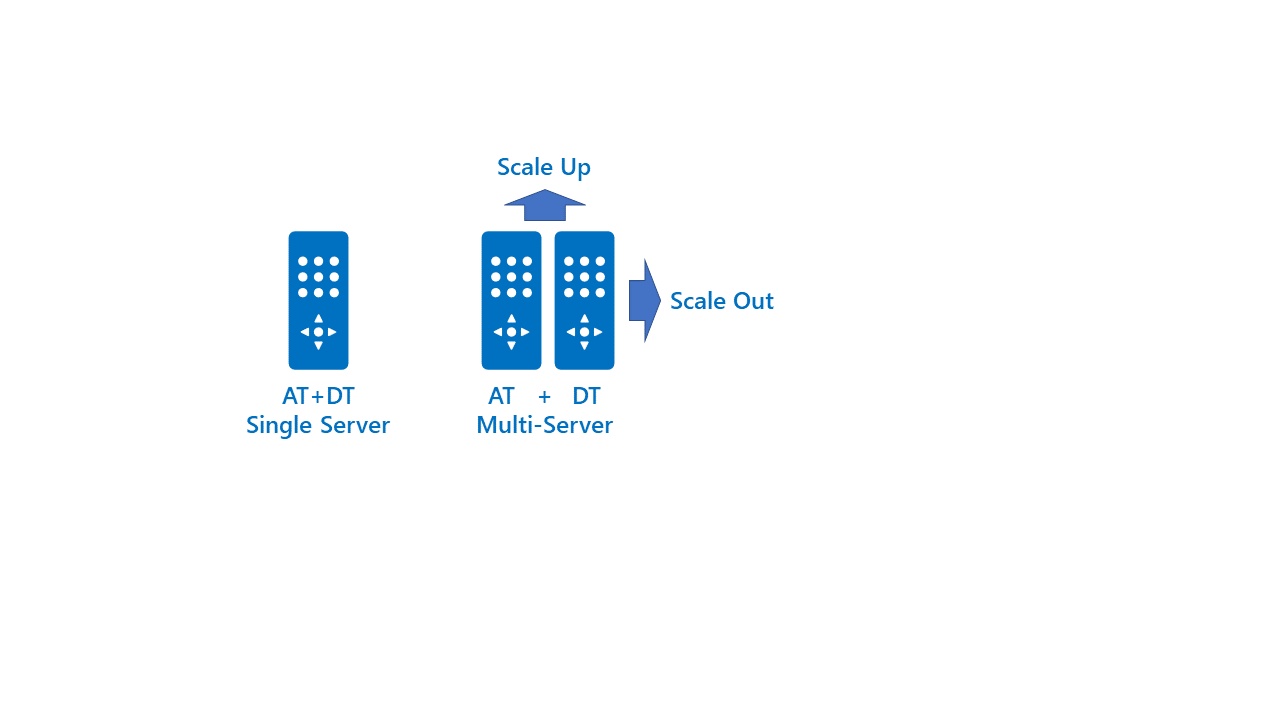
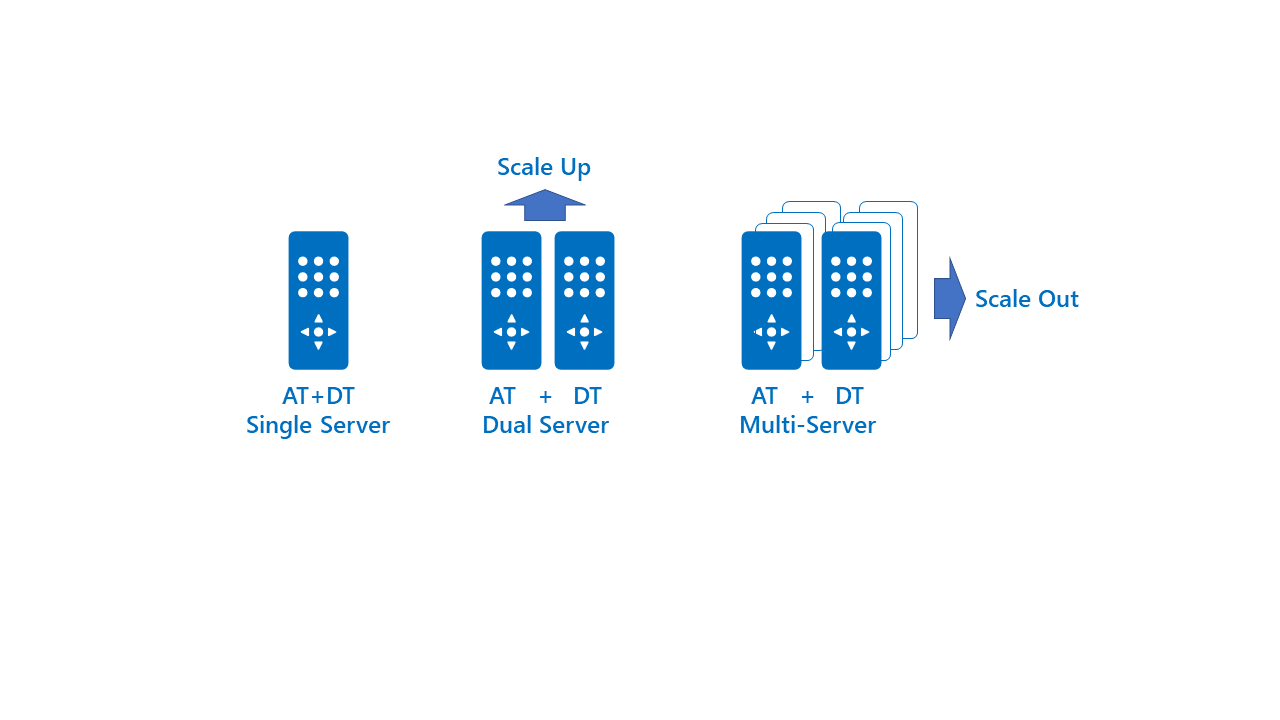
Update duak versus multi server text and diagram

diff --git a/src/Planning/understand-options-tfs-vsts-environments.md b/src/Planning/understand-options-tfs-vsts-environments.md
@@ -10,7 +10,7 @@ This article aims to answer those questions, and give you a perspective on deplo
 
 ## Deployment Options
 
-[Team Foundation Server](https://visualstudio.microsoft.com/tfs) (TFS) and Visual Studio Team Foundation Server (VSTS) both provide an integrated collaboration solution. To [Understand differences between VSTS and TFS](https://docs.microsoft.com/en-us/vsts/user-guide/about-vsts-tfs?view=vsts), read [Essential Services](https://docs.microsoft.com/en-us/vsts/user-guide/services?view=vsts).
+[Team Foundation Server](https://visualstudio.microsoft.com/tfs) (TFS) and Visual Studio Team Foundation Server (VSTS) both provide an integrated collaboration solution. To [understand differences between VSTS and TFS](https://docs.microsoft.com/en-us/vsts/user-guide/about-vsts-tfs?view=vsts), read [Essential Services](https://docs.microsoft.com/en-us/vsts/user-guide/services?view=vsts).
 
 ![Evolution from datacenters to cloud](_img/understand-options-tfs-vsts-environments/understand-options-tfs-vsts-environments-evolution.png)
 
@@ -21,7 +21,7 @@ You can deploy TFS in your on-premises datacenter, a hosted datacenter, or a hyb
 For TFS there are a few deployment options. 
 
 - **Single-server** hosts both the application tier (AT) and the data tier (DT) on a single server. Build, release, test, and proxy servers are optional features and can be deployed on the same or separate servers. A suitable option if you're looking for an easy to use and shareable demo or experimental environment, or simplicity in terms of infrastructure management.
-- **Multi-server (scale up)** starts with the application and the data tiers on separate server. When you are “scaling up,” you are adding resources to a single node in the system, for example, more CPU, memory or disk space.
+- **Dual Server (scale up)** starts with the application and the data tiers on separate server. When you are “scaling up,” you are adding resources to a single node in the system, for example, more CPU, memory or disk space.
 - **Multi-server (scale out)** also starts with the application and the data tiers on separate server. However, when you add resources, you add a new node to the system to distribute load and achieve greater capacity. For example, you can add a new server to the application tier to distribute user request load. The scale-out option also adds redundancy and performance by adding additional application and data tier servers. A typical data tier is implemented using SQL Server instances and the application tier by network load balancing (NLB) two or more application tier servers.
 
 [VSTS](https://visualstudio.microsoft.com/team-services/) is the software as a service (SaaS) cloud offering.
@@ -43,24 +43,27 @@ While both TFS and VSTS provide the same essential services, VSTS provides your 
 
 >
 > [!NOTE]
+>
 > If you want to focus on delivering **business value** and delegate data center operations, security, monitoring, and 24x7 support to the experts, then VSTS is for you!
 >
 
 ## Capacity Planning
 
-To decide which of the TFS deployment options are viable, you need to consider the advantages of each option, the number of users and projects you will need to support and understand the expected requests per second per application tier (AT) server. The following table is a quick summary of the three deployment options, with the maximum number of conservative users. For a more detailed breakdown and recommended scenarios, use the capacity planning workbook that's part of the [TFS Planning, Disaster Avoidance and Recovery](https://vsardata.blob.core.windows.net/projects/Rangers_vsarPlanninglGuide_Everything.zip) guidance.
+To decide which of the TFS deployment options are viable, you need to consider the advantages of each option, the number of users and projects you will need to support and understand the expected requests per second (RPS) per application tier (AT) server. 
 
-|Deployment Option|RPS|Max Users|
-|-----------------|---|---------|
+The following table is a quick summary of the three deployment options, with suggested maximum number of conservative users. For a more detailed breakdown of the scenarios and recommended hardware, use the capacity planning workbook from the [TFS Planning, Disaster Avoidance and Recovery](https://vsardata.blob.core.windows.net/projects/Rangers_vsarPlanninglGuide_Everything.zip) guidance.
+
+|Deployment Option|Requests per second (RPS)|Max Users|
+|-----------------|--:|--------:|
 |Single Server|92-180|250-500|
 |Dual Servers (scale up)|476-730|2200-3600|
-|Dual Servers (scale out)|730+|3600+|
+|Multi Servers (scale out)|730+|3600+|
 
-XXXTBDXXX
-
-## One Team Project to rule them all?
-
-XXXTBDXXX
+>
+> [!TIP]
+>
+> The dual and multi server options allow you to scale your TFS environment as your organization or number of power users grow.
+>
 
 ## Conclusion
 
